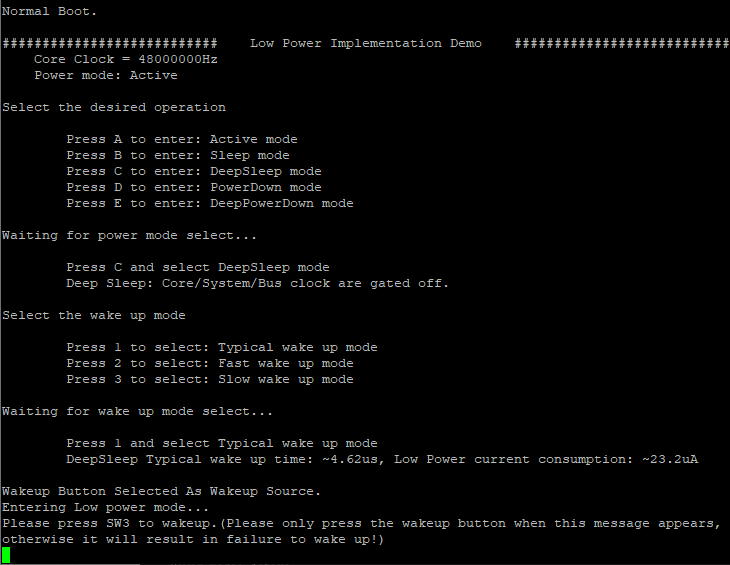
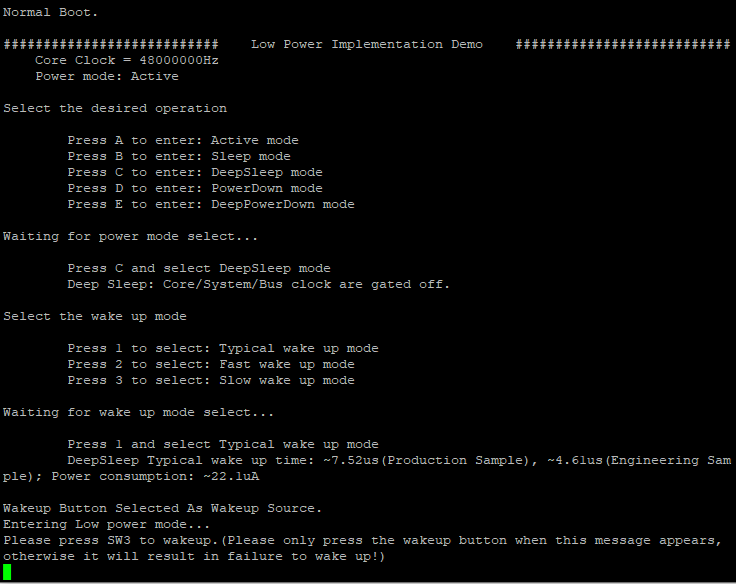
Update README to support Production Sample.

diff --git a/README.md b/README.md
@@ -107,24 +107,26 @@ The low power implementation demo is used for power mode switch, wake up time me
 ## 4. Results<a name="step4"></a>
 The following wake up time and low power current are provided as a reference:
 
+>P represents production sample, E represents engineering sample.
+
 >The typical wake up time correspond to low power wake up time in the datasheet.
 
 >Temperature, measuring instrument and wake up source etc. can affect wake up time.
 
 >There is no special gate all peripherals clock, and DeepPowerDown mode retained all RAM, so the measured current will be a little different from the data in the datasheet.
 
-|power mode|wake up mode|wake up time|low power current|
-|--|--|--|--|
-|Sleep|Typical|0.27us|1.72mA|
-|Sleep|Fast|0.14us|3.31mA|
-|Sleep|Slow|1.02us|0.83mA|
-|DeepSleep|Typical|4.62us|23.2uA|
-|DeepSleep|Fast|2.66us|993.1uA|
-|DeepSleep|Slow|11.94us|23.2uA|
-|PowerDown|Typical|10.07us|6.8uA|
-|PowerDown|Fast|4.49us|218.2uA|
-|PowerDown|Slow|36.94us|6.8uA|
-|DeepPowerDown|Typical|2.97ms|1.12uA|
+|Power mode|Wake up mode|Wake up time(P)|Wake up time(E)|Power consumption(P & E)|
+|--|--|--|--|--|
+|Sleep|Typical|0.27us|0.27us|1.72mA|
+|Sleep|Fast|0.14us|0.14us|3.27mA|
+|Sleep|Slow|1.04us|1.04us|0.82mA|
+|DeepSleep|Typical|7.52us|4.61us|22.1uA|
+|DeepSleep|Fast|5.90us|2.65us|965.2uA|
+|DeepSleep|Slow|14.59us|11.98us|22.0uA|
+|PowerDown|Typical|17.26us|13.99us|6.2uA|
+|PowerDown|Fast|7.79us|4.49us|202.8uA|
+|PowerDown|Slow|39.74us|36.89us|6.2uA|
+|DeepPowerDown|Typical|2.35ms|2.76ms|1.1uA|
 
 ## 5. FAQs<a name="step5"></a>
 *No FAQs have been identified for this project.*
